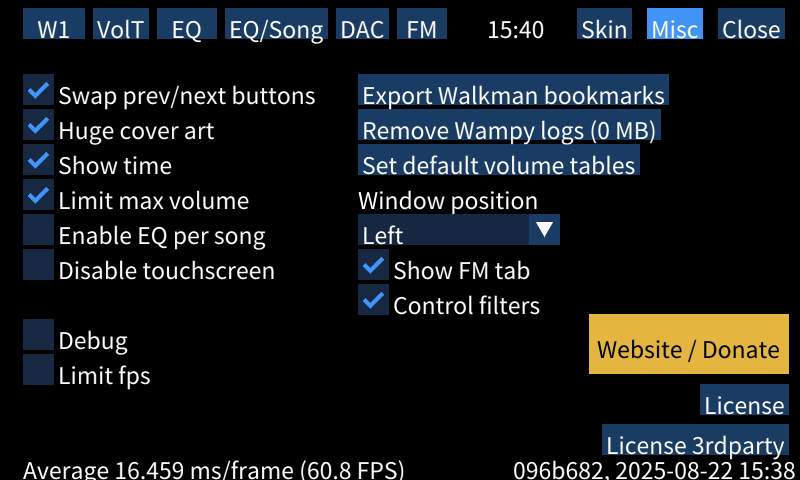
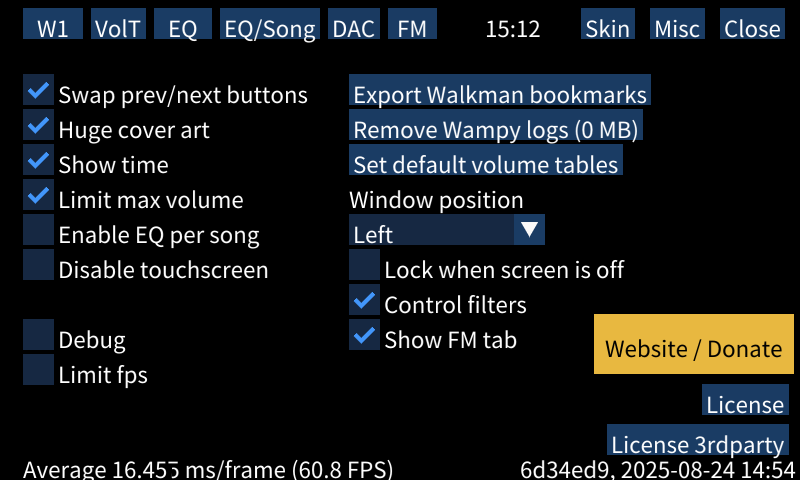
#42 added "Lock when screen is off" option, disables hardware keys if display is off

diff --git a/src/config.cpp b/src/config.cpp
@@ -36,6 +36,7 @@ namespace AppConfig {
         ini["wampy"]["debug"] = std::to_string(debug);
         ini["wampy"]["forceConnector"] = forceConnector;
         ini["wampy"]["windowOffset"] = std::to_string(windowOffset);
+        ini["wampy"]["disableKeysWhenPowerOff"] = std::to_string(disableKeysWhenPowerOff);
 
         ini["cassette:mp3_128"].set({{"tape", cassette.Get(Tape::MP3_128)->tape}, {"reel", cassette.Get(Tape::MP3_128)->reel}});
         ini["cassette:mp3_160"].set({{"tape", cassette.Get(Tape::MP3_160)->tape}, {"reel", cassette.Get(Tape::MP3_160)->reel}});
@@ -125,6 +126,7 @@ namespace AppConfig {
         auto f = mINI::INIFile(filePath);
         f.read(ini);
 
+        // Clang-Tidy: 'atoi' used to convert a string to an integer value, but function will not report conversion errors; consider using 'strtol' instead
         // NOLINTBEGIN
         badBoots = std::atoi(ini["wampy"]["badBoots"].c_str());
         if (ini["wampy"]["limitFPS"].empty()) {
@@ -133,11 +135,10 @@ namespace AppConfig {
             limitFPS = (bool)std::atoi(ini["wampy"]["limitFPS"].c_str());
         }
         debug = (bool)std::atoi(ini["debug"]["enabled"].c_str());
+        disableKeysWhenPowerOff = (bool)std::atoi(ini["wampy"]["disableKeysWhenPowerOff"].c_str());
+        auto windowOffsetTemp = std::atoi(ini["wampy"]["windowOffset"].c_str());
         // NOLINTEND
 
-        forceConnector = ini["wampy"]["forceConnector"];
-
-        auto windowOffsetTemp = std::atoi(ini["wampy"]["windowOffset"].c_str());
         switch (windowOffsetTemp) {
         case EWindowOffset_LEFT:
         case EWindowOffset_RIGHT:
@@ -146,6 +147,8 @@ namespace AppConfig {
         default:
             windowOffset = EWindowOffset_LEFT;
         }
+
+        forceConnector = ini["wampy"]["forceConnector"];
 
         cassette.SetOrDefault(Tape::MP3_128, {ini["cassette:mp3_128"]["tape"], ini["cassette:mp3_128"]["reel"], "MP3 128kbps"});
         cassette.SetOrDefault(Tape::MP3_160, {ini["cassette:mp3_160"]["tape"], ini["cassette:mp3_160"]["reel"], "MP3 160kbps"});

diff --git a/src/skin.cpp b/src/skin.cpp
@@ -651,7 +651,7 @@ void Skin::Misc() {
 
         ImGui::TableNextColumn();
         ImGui::TableNextColumn();
-        if (ImGui::Checkbox("Show FM tab", &config->showFmInSettings)) {
+        if (ImGui::Checkbox("Lock when screen is off", &config->disableKeysWhenPowerOff)) {
             config->Save();
         }
 
@@ -667,6 +667,7 @@ void Skin::Misc() {
         }
 
         ImGui::TableNextColumn();
+
         ImGui::TableNextRow();
         ImGui::TableNextColumn();
         if (ImGui::Checkbox("Debug", &config->debug)) {
@@ -675,6 +676,10 @@ void Skin::Misc() {
             config->Save();
         }
         ImGui::TableNextColumn();
+        ImGui::TableNextColumn();
+        if (ImGui::Checkbox("Show FM tab", &config->showFmInSettings)) {
+            config->Save();
+        }
 
         ImGui::TableNextRow();
         ImGui::TableNextColumn();
@@ -2369,6 +2374,10 @@ void Skin::KeyHandler() {
         if (*render) {
             *render = false;
         }
+    }
+
+    if ((config->disableKeysWhenPowerOff) && (!connector->power)) {
+        return;
     }
 
     if (ImGui::IsKeyReleased(ImGuiKey_Prev)) {

diff --git a/src/config.h b/src/config.h
@@ -77,6 +77,7 @@ namespace AppConfig {
         Filters filters{};
         bool showFmInSettings = true;
         bool controlFilters = false;
+        bool disableKeysWhenPowerOff = false;
 
         int FindConfig();
 

diff --git a/USAGE.md b/USAGE.md
@@ -469,6 +469,10 @@ this mode, set volume to 120 in default player app and toggle Wampy on.
 
 `Window position` sets window position on devices with bigger screen (WM1A/Z).
 
+`Lock when screen is off` - ignore keypresses after screen was turned off by power button or timer.
+
+`Control filters` - see [EQUALIZER-FILTERS.md](./EQUALIZER-FILTERS.md).
+
 `Show FM tab` shows/hides FM tab, useful for those without FM chip on board (WM1A/Z, ZX300).
 
 `Debug` checkbox enables some logging, which you (the user) don't need. It also shows codec/bitrate when active skin is
